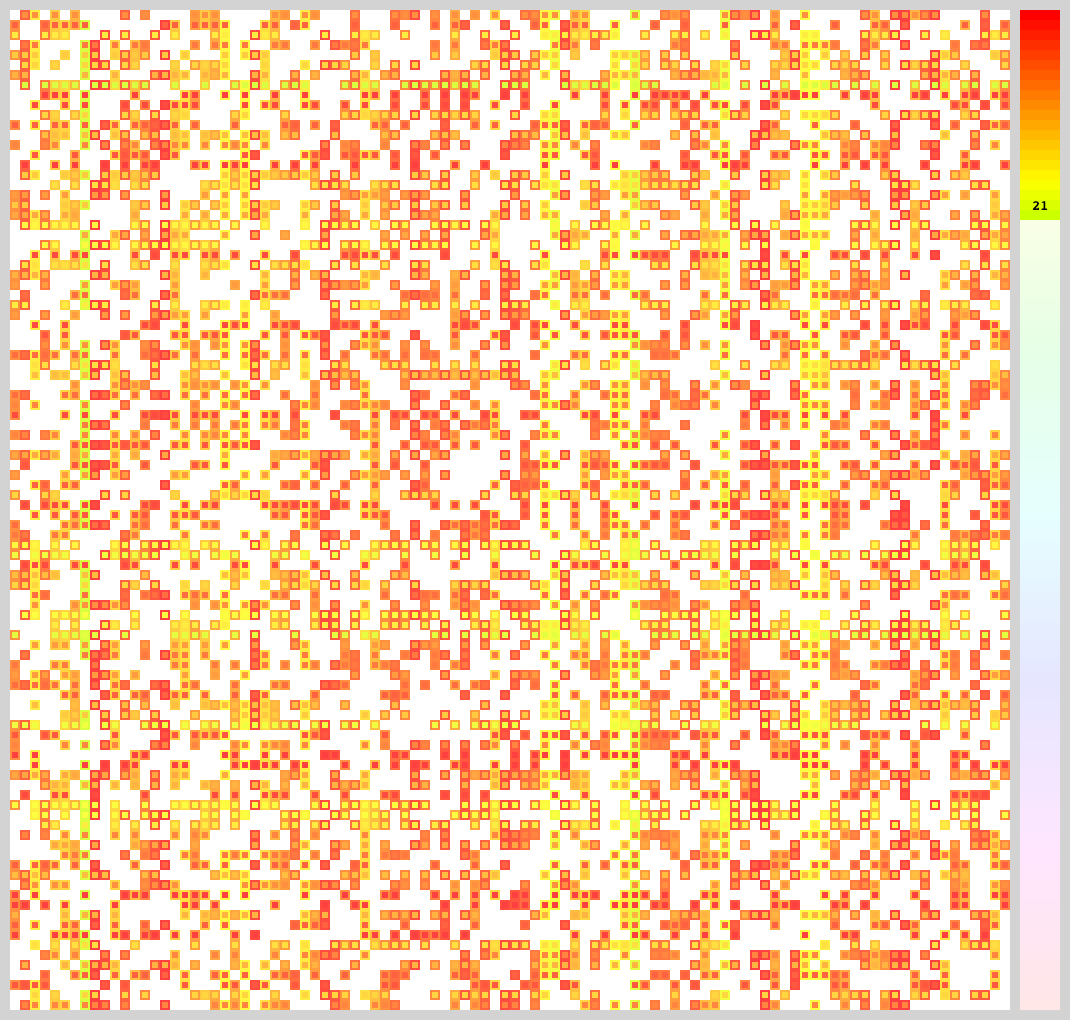
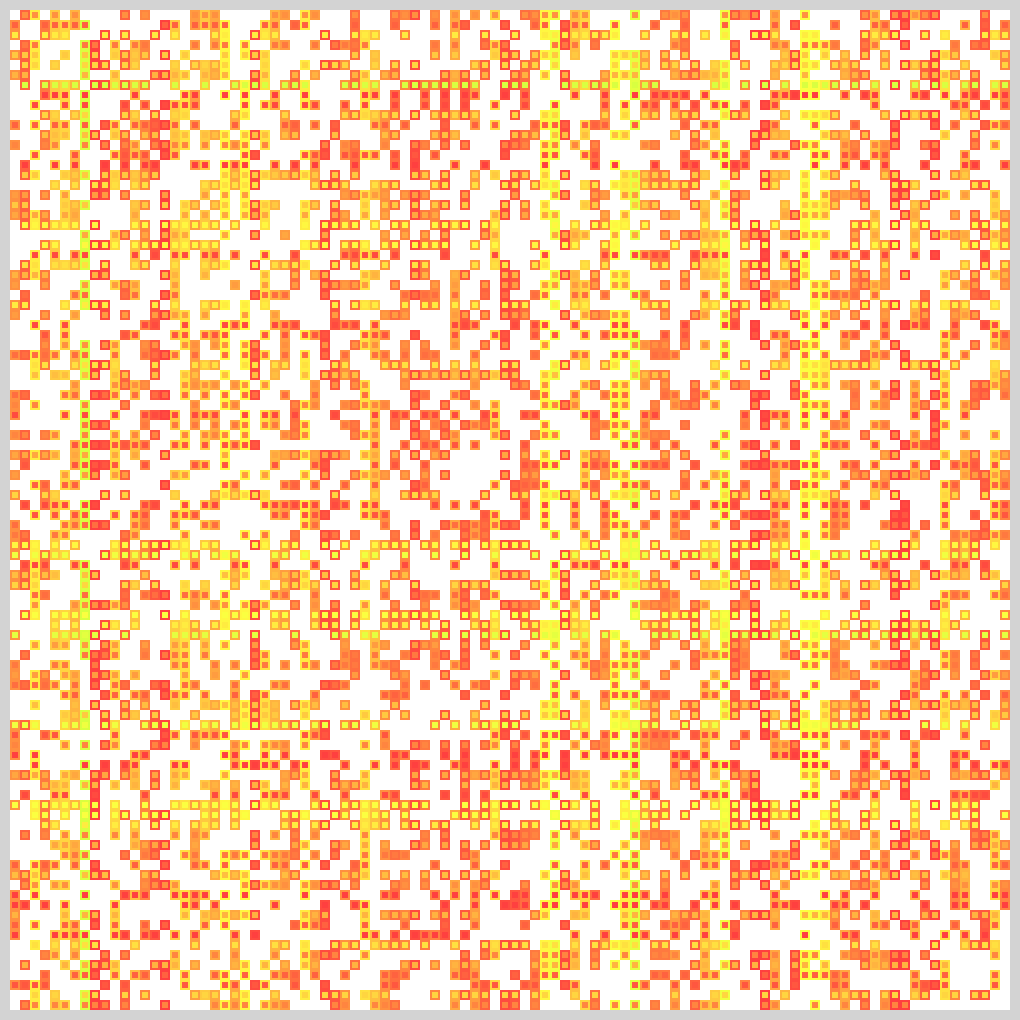
Fix gcp/Visualizer.java

diff --git a/GraphColoring/tester/Visualizer.java b/GraphColoring/tester/Visualizer.java
@@ -15,9 +15,8 @@ public class Visualizer extends JFrame
 {
     final int FIELD_HEIGHT = 1000;
     final int FIELD_WIDTH  = 1000;
-    final int METER_WIDTH  = 50;
     final int PADDING = 10;
-    final int VIS_SIZE_X = FIELD_WIDTH + PADDING * 2 + METER_WIDTH;
+    final int VIS_SIZE_X = FIELD_WIDTH + PADDING * 2;
     final int VIS_SIZE_Y = FIELD_HEIGHT + PADDING * 2;
     final Tester tester;
 
@@ -106,22 +105,6 @@ public class Visualizer extends JFrame
                 g2.fillRect(cell_width * x + 2, cell_width * y + 2, cell_width - 4, cell_height - 4);
             }
         }
-
-        /* Converts the origin of the graphics context to a 
-           point (x, y) in the current coordinate system.*/
-        g2.translate(FIELD_WIDTH + 10, 0);
-
-        /* Draw a number meter of colors. */
-        for (int i = 0; i < tester.N; i++) {
-            Color c = Color.getHSBColor((1.0f / (float)tester.N) * (float)i, i < tester.getScore() ? 1.0f : 0.10f, 1.0f);
-            g2.setColor(c);
-            g2.fillRect(0, FIELD_HEIGHT / tester.N * i, METER_WIDTH - 10, FIELD_HEIGHT / tester.N);
-        }
-        g2.setColor(new Color(0x000000));
-        FontMetrics fm = g2.getFontMetrics();
-        char[] ch = ("" + tester.getScore()).toCharArray();
-        g2.setFont(new Font("Courier", Font.BOLD, 14));
-        g2.drawChars(ch, 0, ch.length, METER_WIDTH / 4,FIELD_HEIGHT / tester.N * (tester.getScore() - 1));
 
         return bi;
     }
